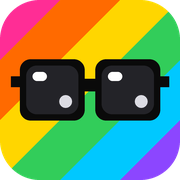
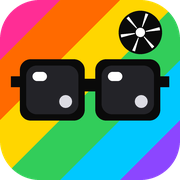
Add small shutter accent to brand mark.
Keep six-color bands and large sunglasses; place a pop-art
aperture badge in the top-right for a camera nod.

Changed region(s): [[0.6389, 0.0556, 0.9167, 0.3056]]

diff --git a/components/BrandMark.tsx b/components/BrandMark.tsx
@@ -5,7 +5,7 @@ type Props = { size?: number };
 
 /**
  * Original One Day One Shot mark: rounded square, six diagonal color bands,
- * large bold sunglasses only. Not an Instagram logo/glyph copy.
+ * large bold sunglasses + small top-right shutter accent. Not an Instagram logo/glyph copy.
  */
 export function BrandMark({ size = 72 }: Props) {
   return (
